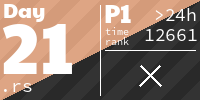
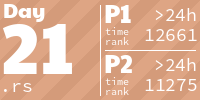
OMG day 21 - part 2

diff --git a/src/day21.rs b/src/day21.rs
@@ -48,15 +48,8 @@ impl Dir {
     }
 }
 
-fn pp_paths(paths: &Vec<PathC>) {
-    for p in paths {
-        pp_instr(p);
-    }
-    println!();
-}
-
-fn pp_instr(instr: &PathC) {
-    for i in instr {
+fn pp_path(path: &PathC) {
+    for i in path {
         print!("{}", i);
     }
     println!();
@@ -67,10 +60,6 @@ fn path_dir_to_path_char(path: &PathD) -> PathC {
 }
 
 fn compute_matrix_shortest_paths(matrix: &Matrix<char>) -> HashMap<(char, char), PathC> {
-    // println!(
-    //     "[DDA] day21:: computing shortest paths for matrix:\n{}",
-    //     matrix
-    // );
     let mut cost_at_pos = HashMap::new();
     for x0 in 0..matrix.width {
         for y0 in 0..matrix.height {
@@ -146,17 +135,6 @@ pub fn get_path_for_nums(code: &Vec<char>) -> PathC {
     new_paths.concat()
 }
 
-pub fn get_path_for_keys(keys: &PathC) -> PathC {
-    let mut pos_arm = 'A';
-    let mut new_paths = vec![];
-    for &k in keys {
-        let path_to_k = DIR_SP.get(&(pos_arm, k)).unwrap();
-        new_paths.push(path_to_k.clone());
-        pos_arm = k;
-    }
-    new_paths.concat()
-}
-
 // let's iterate over the paths and count how many times we change letter
 pub fn score_change_dir(path: &PathC) -> usize {
     let mut score = 0;
@@ -203,23 +181,47 @@ impl Puzzle {
         Puzzle { codes }
     }
 
-    pub fn solve_p1(&self, nb_robots: usize) -> usize {
-        let mut sum = 0;
-        for code in &self.codes {
-            println!("[DDA] day21:: trying to type code: {:?}", code);
-            let mut path = get_path_for_nums(code);
+    pub fn shortest_len(
+        &self,
+        pos_arm: char,
+        c: char,
+        level: usize,
+        cache: &mut HashMap<(char, char, usize), usize>,
+    ) -> usize {
+        if level == 1 {
+            return DIR_SP.get(&(pos_arm, c)).unwrap().len();
+        }
+        if let Some(&len) = cache.get(&(pos_arm, c, level)) {
+            return len;
+        }
 
-            // paths = vec!["<v".chars().collect::<Vec<char>>()];
-            for i in 0..nb_robots {
-                path = get_path_for_keys(&path);
-                println!("keypad {}: {}", i + 1, path.len());
-            }
+        let mut len = 0;
+        let path_to_c = DIR_SP.get(&(pos_arm, c)).unwrap();
+        let mut local_pos_arm = 'A';
+        for &tgt in path_to_c {
+            len += self.shortest_len(local_pos_arm, tgt, level - 1, cache);
+            local_pos_arm = tgt;
+        }
+        cache.insert((pos_arm, c, level), len);
+        len
+    }
+
+    pub fn solve(&self, nb_robots: usize) -> usize {
+        let mut sum = 0;
+        let mut cache: HashMap<(char, char, usize), usize> = HashMap::new();
+        for code in &self.codes {
+            // println!("[DDA] day21:: trying to type code: {:?}", code);
+
             let code_string: String = code.iter().collect();
             let code_str = &code_string[..3];
             let code_i32 = tousize(code_str);
-            // println!("[DDA] day21:: {} x {}", code_i32, paths[0].len());
-            sum += path.len() * code_i32;
-            // break;
+
+            let path = get_path_for_nums(&code);
+            let mut pos_arm = 'A';
+            for c in path {
+                sum += code_i32 * self.shortest_len(pos_arm, c, nb_robots, &mut cache);
+                pos_arm = c;
+            }
         }
         sum
     }
@@ -227,20 +229,17 @@ impl Puzzle {
 
 fn p1(input: &str) -> usize {
     let puzzle = Puzzle::from_str(input);
-    puzzle.solve_p1(2)
-}
-
-fn p2(input: &str) -> usize {
-    let puzzle = Puzzle::from_str(input);
-    puzzle.solve_p1(18)
+    puzzle.solve(2)
 }
 
 //--------------------------------------------------------------------------------
 // p2
 //--------------------------------------------------------------------------------
 
-// fn p2(input: &str, threshold: i32) -> usize {
-// }
+fn p2(input: &str) -> usize {
+    let puzzle = Puzzle::from_str(input);
+    puzzle.solve(25)
+}
 
 //--------------------------------------------------------------------------------
 // main
@@ -248,11 +247,9 @@ fn p2(input: &str) -> usize {
 
 pub fn run() {
     pp_day("day21: Keypad Conundrum");
-    // time_it(p1, "p1", "data/21_sample.txt");
-    // time_it(p1, "p1", "data/21_input.txt");
-    // time_it(p2, "p2", "data/21_sample.txt");
-    //10, no break: 266085760
-    //18, with break: 137155013490
+    time_it(p1, "p1", "data/21_sample.txt");
+    time_it(p1, "p1", "data/21_input.txt");
+    time_it(p2, "p2", "data/21_sample.txt");
     time_it(p2, "p2", "data/21_input.txt");
 }
 
@@ -264,7 +261,7 @@ mod tests {
     fn test() {
         assert_eq!(run_it(p1, "data/21_sample.txt"), 126384);
         assert_eq!(run_it(p1, "data/21_input.txt"), 188398);
-        // assert_eq!(run_it(p2, "data/21_sample.txt"), 16);
-        // assert_eq!(run_it(p2, "data/21_input.txt"), 595975512785325);
+        assert_eq!(run_it(p2, "data/21_sample.txt"), 154115708116294);
+        assert_eq!(run_it(p2, "data/21_input.txt"), 230049027535970);
     }
 }

diff --git a/README.md b/README.md
@@ -1,6 +1,6 @@
 <!-- AOC TILES BEGIN -->
 <h1 align="center">
-  2024 - 41 ⭐ - Rust
+  2024 - 42 ⭐ - Rust
 </h1>
 <a href="src/day01.rs">
   <img src=".aoc_tiles/tiles/2024/01.png" width="161px">
